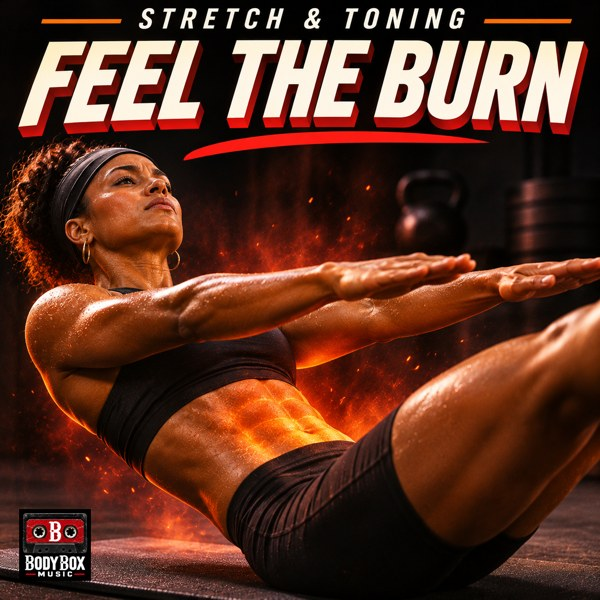
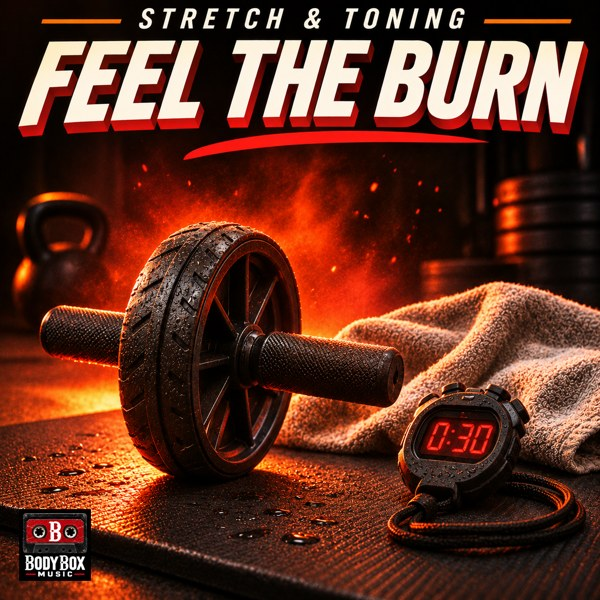
Music: new Feel the Burn cover
Claude-Session: https://claude.ai/code/session_017vtcceZtinFcmhavL52LDN

diff --git a/music/index.html b/music/index.html
@@ -290,7 +290,7 @@ const GROUPS = [
  ]}
 ];
 const ALL = GROUPS.flatMap(g=>g.sets);
-const COVER = {"audio/keep-doing-great-things.mp3":"covers/kdgt.jpg","audio/stay-calm.mp3":"covers/stay-calm.jpg","audio/heavy-weights-light-plates.mp3":"covers/hwlp.jpg","audio/heavy-weights-light-plates-comp-anthem.mp4":"covers/hwlp-comp.jpg","audio/started-in-a-garage.mp4":"covers/garage.jpg","audio/team-bodybox.mp4":"covers/teambodybox.jpg","audio/run-mix-pt-1-warm-up.mp4":"covers/runmix-1.jpg?v=2","audio/run-mix-pt-2-settle-in.mp4":"covers/runmix-2.jpg?v=2","audio/s-h-i-i-t.mp4":"covers/shiit-1.jpg","audio/s-h-i-i-t-dont-stop-the-work.mp4":"covers/shiit-5.jpg","audio/tighten-up.mp4":"covers/tighten-up.jpg","audio/smooth-moves.mp4":"covers/smooth-moves.jpg","audio/rest-day.mp4":"covers/rest-day.jpg","audio/rest-day-take-it-easy.mp4":"covers/take-it-easy.jpg?v=2","audio/swing-it-body-box-class.mp4":"covers/swing-it.jpg","audio/i-pushed-the-heart-swing-set-remix.mp4":"covers/pushed-the-heart.jpg","audio/we-take-this-serious.mp4":"covers/we-take-this-serious.jpg?v=2","audio/new-era.mp4":"covers/new-era.jpg","audio/stronger-every-day.mp4":"covers/stronger-every-day.jpg","audio/feel-the-burn.mp4":"covers/feel-the-burn.jpg"};
+const COVER = {"audio/keep-doing-great-things.mp3":"covers/kdgt.jpg","audio/stay-calm.mp3":"covers/stay-calm.jpg","audio/heavy-weights-light-plates.mp3":"covers/hwlp.jpg","audio/heavy-weights-light-plates-comp-anthem.mp4":"covers/hwlp-comp.jpg","audio/started-in-a-garage.mp4":"covers/garage.jpg","audio/team-bodybox.mp4":"covers/teambodybox.jpg","audio/run-mix-pt-1-warm-up.mp4":"covers/runmix-1.jpg?v=2","audio/run-mix-pt-2-settle-in.mp4":"covers/runmix-2.jpg?v=2","audio/s-h-i-i-t.mp4":"covers/shiit-1.jpg","audio/s-h-i-i-t-dont-stop-the-work.mp4":"covers/shiit-5.jpg","audio/tighten-up.mp4":"covers/tighten-up.jpg","audio/smooth-moves.mp4":"covers/smooth-moves.jpg","audio/rest-day.mp4":"covers/rest-day.jpg","audio/rest-day-take-it-easy.mp4":"covers/take-it-easy.jpg?v=2","audio/swing-it-body-box-class.mp4":"covers/swing-it.jpg","audio/i-pushed-the-heart-swing-set-remix.mp4":"covers/pushed-the-heart.jpg","audio/we-take-this-serious.mp4":"covers/we-take-this-serious.jpg?v=2","audio/new-era.mp4":"covers/new-era.jpg","audio/stronger-every-day.mp4":"covers/stronger-every-day.jpg","audio/feel-the-burn.mp4":"covers/feel-the-burn.jpg?v=2"};
 const thumb = (t,id) => COVER[t[1]] ? '<div class="art th photo"><img src="'+COVER[t[1]]+'" alt=""></div>' : '<div class="art th" style="--g:'+grad(id)+'"><img src="tape.png" alt=""></div>';
 const HUE = {run:"#d62828,#5b0b0b",shiit:"#ff5f1f,#7a1300",toning:"#ff6fa8,#7d1d4f",rest:"#5b7cfa,#1b2560",grooves:"#ffb703,#7a3d00",anthems:"#d62828,#111",newera:"#b14cff,#2d0b5a",yoga:"#2ec4b6,#0a3d3a",hiit:"#f72585,#3a0b5a",originals:"#e63946,#2b2b2b",chill:"#4cc9f0,#16325c","hype-mix":"#ff1e1e,#3a0000",rnb:"#c77dff,#3c096c",hiphop:"#f4a261,#4a2511",rap:"#adb5bd,#141414",instrumental:"#06d6a0,#073b4c",satclass:"#ef476f,#3d0a1a","sunday-reset":"#90be6d,#1f3a14",search:"#8e8e93,#2c2c2e"};
 const esc = s => String(s).replace(/[&<>"']/g,c=>({"&":"&amp;","<":"&lt;",">":"&gt;",'"':"&quot;","'":"&#39;"}[c]));
